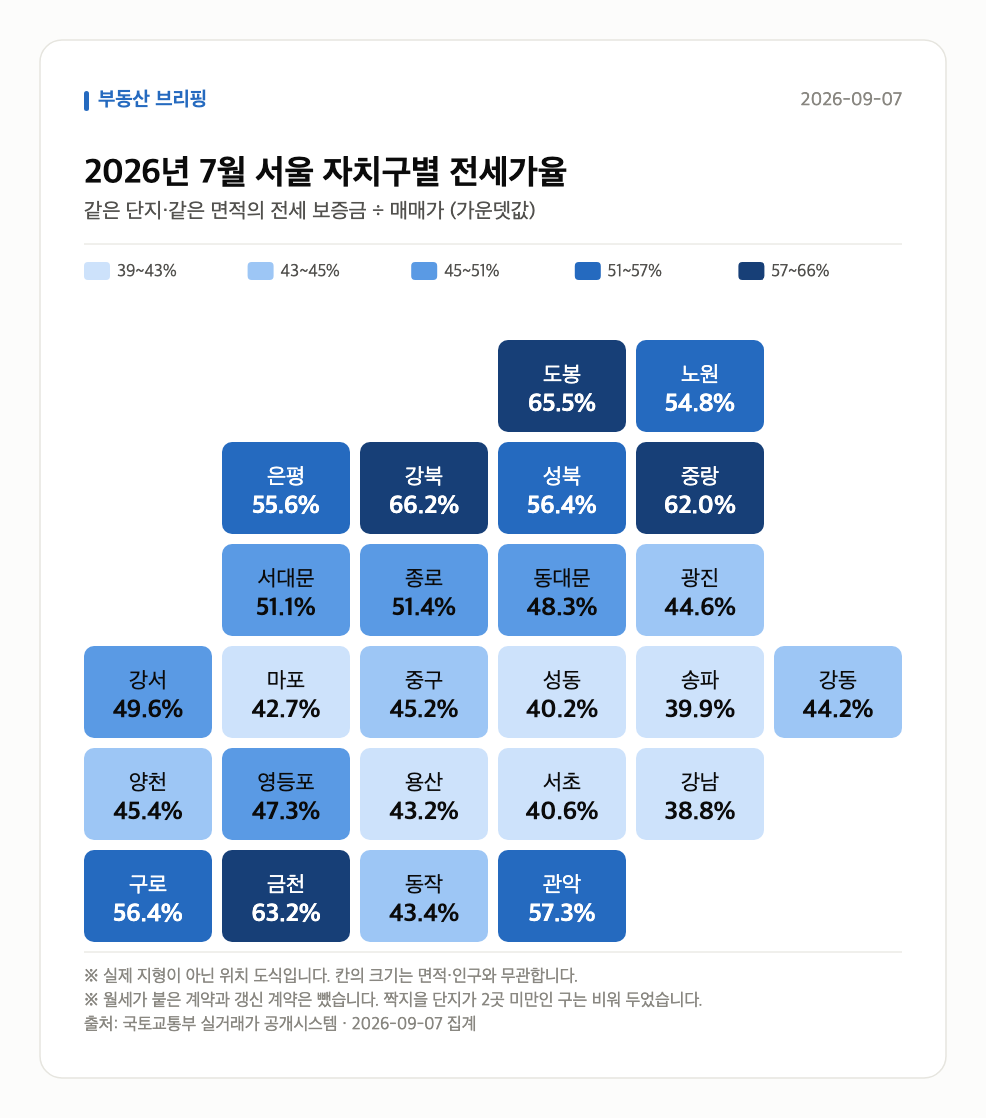
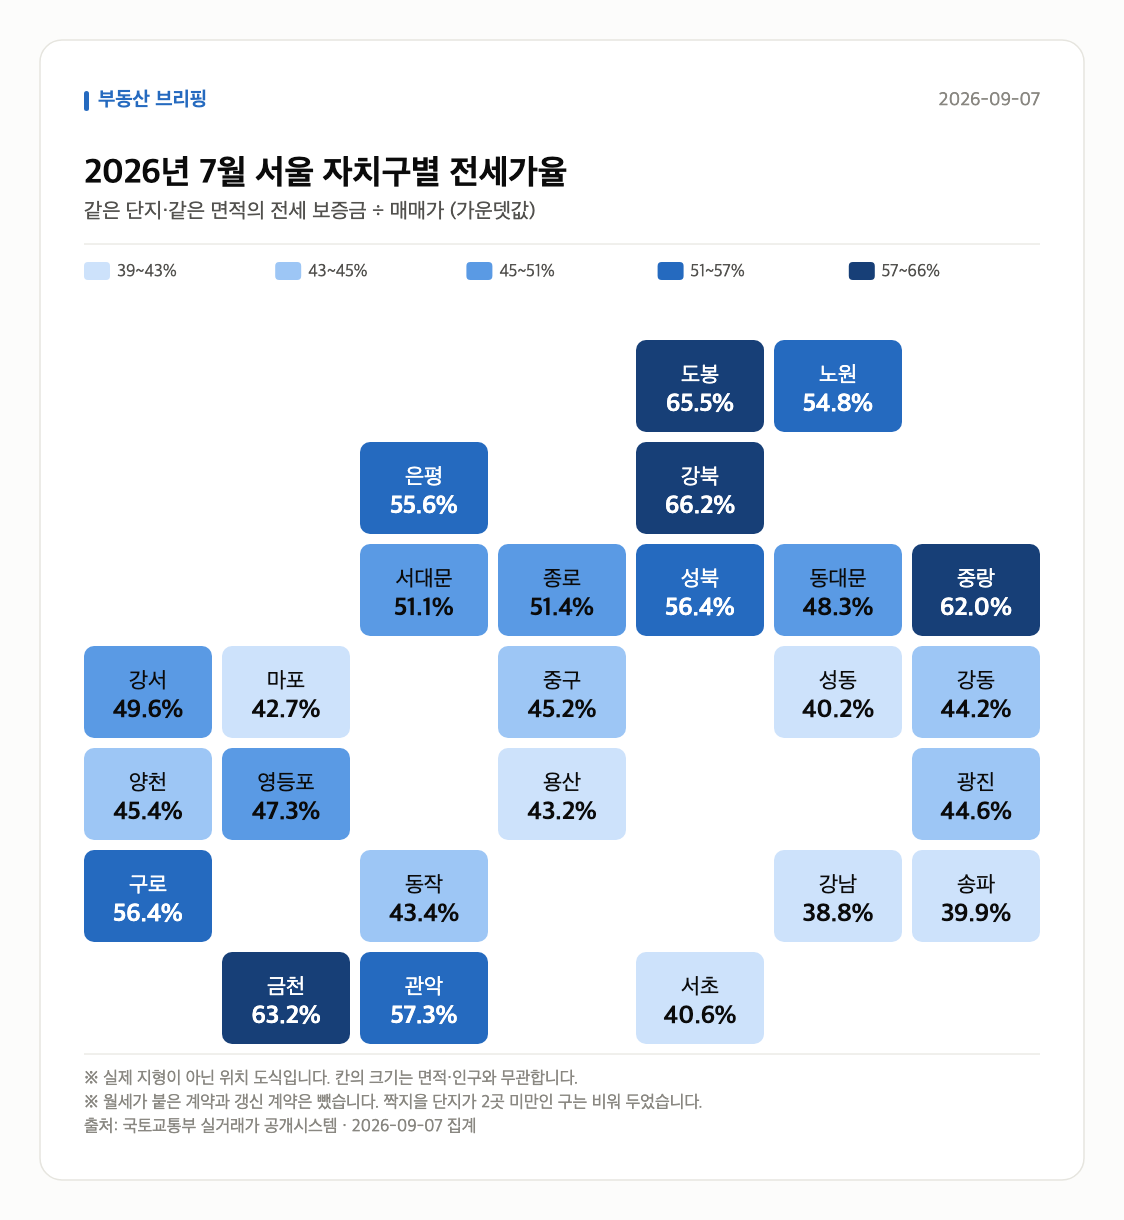
자치구 도식을 실제 위경도 순서에 맞게 다시 놓음
지도가 실제 서울과 다르다는 지적을 받고 자치구청 중심 좌표와 대조했습니다.
예전 도식은 남북 11쌍·동서 4쌍이 뒤집혀 있었습니다.

· 관악이 동작 바로 아래가 아니라 아홉 칸 오른쪽에 있었습니다
· 광진·송파가 실제보다 다섯 자리 북쪽에 있었습니다 (송파가 성동·강동과 같은 줄)
· 강북이 다섯 칸 서쪽에 있었습니다
· 은평·서대문·금천도 서너 칸씩 어긋나 있었습니다

25개 구 중심 좌표를 SEOUL_LAYOUT 주석에 적어 두고 7줄×7칸으로 다시 놓아
뒤집힘을 0쌍으로 만들었습니다. 처음에는 8줄이 나왔는데, 열이 겹치지 않는
두 줄(서대문·동대문 줄과 종로·성북·중랑 줄)을 합쳐 한 줄을 줄였습니다.

칸이 절반쯤 빕니다(25/49). 억지로 채우면 위치가 다시 틀어지므로 그대로 둡니다 —
비어 있는 자리가 서울 모양입니다.

앞으로 자리를 잘못 옮기면 테스트가 잡습니다. 좌표를 시험 파일에도 넣어 두고,
북쪽 구가 아래 줄에 있거나 동쪽 구가 왼쪽 칸에 있으면 실패합니다.

테스트 199개 통과.

diff --git a/rebrief/images.py b/rebrief/images.py
@@ -43,14 +43,30 @@ GOOD = "#006300"
 # 러너에 한글 글꼴이 없으면 PNG 의 한글이 전부 네모로 깨진다 (2026-09-07 실제로 그랬음).
 FONT = "'Apple SD Gothic Neo','Noto Sans CJK KR','Noto Sans KR','NanumGothic',system-ui,-apple-system,sans-serif"
 
-# 서울 25개 자치구의 상대 위치 도식. 실제 지형·면적과는 무관하다.
+# 서울 25개 자치구의 상대 위치 도식. 칸의 크기·모양은 실제 면적과 무관하지만, **줄과 칸의
+# 순서는 실제 위경도 순서를 지킵니다** — 같은 세로줄은 동서로 비슷한 자리, 같은 가로줄은
+# 남북으로 비슷한 자리입니다.
+#
+# 아래 중심 좌표(자치구청 기준)로 남북 8줄·동서 7칸에 나눠 배치했습니다. 예전 도식은
+# 여섯 곳이 크게 어긋나 있었습니다 (2026-09-07 측정): 관악이 동작 옆이 아니라 오른쪽으로
+# 아홉 칸 밀려 있었고, 광진·송파가 실제보다 다섯 자리 북쪽에, 강북은 다섯 칸 서쪽에
+# 있었습니다. 자리를 옮길 일이 생기면 이 좌표부터 보세요.
+#
+#   도봉 37.668,127.032 · 노원 37.654,127.075 · 강북 37.640,127.011 · 은평 37.618,126.928
+#   성북 37.605,127.018 · 중랑 37.598,127.093 · 종로 37.595,126.978 · 서대문 37.577,126.937
+#   동대문 37.575,127.045 · 마포 37.560,126.909 · 중구 37.560,126.996 · 강서 37.556,126.824
+#   성동 37.550,127.041 · 강동 37.549,127.147 · 광진 37.538,127.083 · 용산 37.532,126.981
+#   양천 37.524,126.861 · 영등포 37.522,126.910 · 동작 37.505,126.943 · 송파 37.505,127.115
+#   강남 37.497,127.063 · 구로 37.494,126.858 · 서초 37.475,127.032 · 관악 37.470,126.947
+#   금천 37.460,126.898
 SEOUL_LAYOUT: list[dict[int, str]] = [
-    {3: "도봉", 4: "노원"},
-    {1: "은평", 2: "강북", 3: "성북", 4: "중랑"},
-    {1: "서대문", 2: "종로", 3: "동대문", 4: "광진"},
-    {0: "강서", 1: "마포", 2: "중구", 3: "성동", 4: "송파", 5: "강동"},
-    {0: "양천", 1: "영등포", 2: "용산", 3: "서초", 4: "강남"},
-    {0: "구로", 1: "금천", 2: "동작", 3: "관악"},
+    {4: "도봉", 5: "노원"},
+    {2: "은평", 4: "강북"},
+    {2: "서대문", 3: "종로", 4: "성북", 5: "동대문", 6: "중랑"},
+    {0: "강서", 1: "마포", 3: "중구", 5: "성동", 6: "강동"},
+    {0: "양천", 1: "영등포", 3: "용산", 6: "광진"},
+    {0: "구로", 2: "동작", 5: "강남", 6: "송파"},
+    {1: "금천", 2: "관악", 4: "서초"},
 ]
 SEOUL_GU = {gu for row in SEOUL_LAYOUT for gu in row.values()}
 
@@ -243,7 +259,8 @@ def seoul_district_map(dp: dict, date: str, extra: dict | None = None) -> Image 
         notes.append(f'※ {dp["context"]}')
     notes.append(_source_line(dp, date))
 
-    w = (M + P) * 2 + 6 * tw + 5 * gap
+    cols = max(c for row in SEOUL_LAYOUT for c in row) + 1
+    w = (M + P) * 2 + cols * tw + (cols - 1) * gap
     rows = len(SEOUL_LAYOUT)
     sub = (extra or {}).get("subtitle", "")
     h = card_height(w, dp["label"].replace(" 수", ""), sub, 34 + rows * (th + gap) - gap + 24, notes)
@@ -607,7 +624,8 @@ def district_choropleth(data: dict, date: str, extra: dict | None = None, *,
                 return i
         return len(ramp) - 1
 
-    w = (M + P) * 2 + 6 * tw + 5 * gap
+    cols = max(c for row in SEOUL_LAYOUT for c in row) + 1
+    w = (M + P) * 2 + cols * tw + (cols - 1) * gap
     rows = len(SEOUL_LAYOUT)
     content = 62 + rows * (th + gap) - gap
     h = card_height(w, title, sub, content, notes)

diff --git a/tests/test_develop.py b/tests/test_develop.py
@@ -1428,3 +1428,41 @@ def test_storage_use_projects_a_year(cfg):
     assert use["mb"] == 2.0 and use["per_day_mb"] == 1.0
     assert use["year_gb"] == 0.36                       # 하루 1MB × 365
     assert _storage_use(cfg, 0)["per_day_mb"] == 0
+
+
+# ── 자치구 도식이 실제 위치를 지키는지 ──────────────────────
+
+# 자치구청 기준 중심 좌표(위도, 경도). 도식은 실제 지형이 아니지만 **순서는 지켜야** 한다.
+SEOUL_CENTER = {
+    "도봉": (37.668, 127.032), "노원": (37.654, 127.075), "강북": (37.640, 127.011),
+    "은평": (37.618, 126.928), "성북": (37.605, 127.018), "중랑": (37.598, 127.093),
+    "종로": (37.595, 126.978), "서대문": (37.577, 126.937), "동대문": (37.575, 127.045),
+    "마포": (37.560, 126.909), "중구": (37.560, 126.996), "강서": (37.556, 126.824),
+    "성동": (37.550, 127.041), "강동": (37.549, 127.147), "광진": (37.538, 127.083),
+    "용산": (37.532, 126.981), "양천": (37.524, 126.861), "영등포": (37.522, 126.910),
+    "동작": (37.505, 126.943), "송파": (37.505, 127.115), "강남": (37.497, 127.063),
+    "구로": (37.494, 126.858), "서초": (37.475, 127.032), "관악": (37.470, 126.947),
+    "금천": (37.460, 126.898),
+}
+
+
+def test_district_grid_never_flips_north_or_east():
+    """도식의 줄·칸이 실제 남북·동서 순서를 뒤집지 않아야 한다.
+
+    예전 도식은 남북 11쌍·동서 4쌍이 뒤집혀 있었습니다 — 관악이 동작에서 아홉 칸 오른쪽에,
+    광진·송파가 실제보다 다섯 자리 북쪽에 있었습니다. 칸을 옮길 일이 생기면 위 좌표를 보세요.
+    """
+    from rebrief.images import SEOUL_LAYOUT
+
+    pos = {gu: (r, c) for r, row in enumerate(SEOUL_LAYOUT) for c, gu in row.items()}
+    assert set(pos) == set(SEOUL_CENTER), "25개 구가 빠짐없이 한 번씩 있어야 합니다"
+
+    flipped_ns = [(a, b) for a in pos for b in pos
+                  if SEOUL_CENTER[a][0] > SEOUL_CENTER[b][0] and pos[a][0] > pos[b][0]]
+    flipped_ew = [(a, b) for a in pos for b in pos
+                  if SEOUL_CENTER[a][1] > SEOUL_CENTER[b][1] and pos[a][1] < pos[b][1]]
+    assert not flipped_ns, f"북쪽 구가 아래 줄에 있습니다: {flipped_ns[:3]}"
+    assert not flipped_ew, f"동쪽 구가 왼쪽 칸에 있습니다: {flipped_ew[:3]}"
+
+    # 한 칸에 두 구를 넣으면 하나가 가려진다
+    assert len(set(pos.values())) == 25

diff --git a/output/2026-09-07/stats.md b/output/2026-09-07/stats.md
@@ -105,23 +105,12 @@
 | 서초구 | 1066건 | 494건 (46.3%) | 8.81억 | 3.0억 / 150만원 |
 | 성동구 | 601건 | 257건 (42.8%) | 7.2억 | 1.4억 / 194만원 |
 
-## 한국부동산원 주간 가격지수 (서울)
-
-![주간 가격지수](img-stats-index.png)
-
-| 기준일 | 매매 | 전세 |
-| --- | ---: | ---: |
-| 2026-08-03 | 101.08 | 101.05 |
-| 2026-08-10 | 101.29 | 101.25 |
-| 2026-08-17 | 101.51 | 101.44 |
-| 2026-08-24 | 101.81 | 101.67 |
-| 2026-08-31 | 102.03 | 101.88 |
 
 
 
 
 ---
 
-*출처: 국토교통부 실거래가 공개시스템(공공데이터포털), 한국부동산원 R-ONE.
+*출처: 국토교통부 실거래가 공개시스템(공공데이터포털).
 평균은 그 달 신고분의 단순 평균이며 면적·층을 보정하지 않았습니다.
 해제(계약 취소)로 신고된 건은 뺐습니다.*
